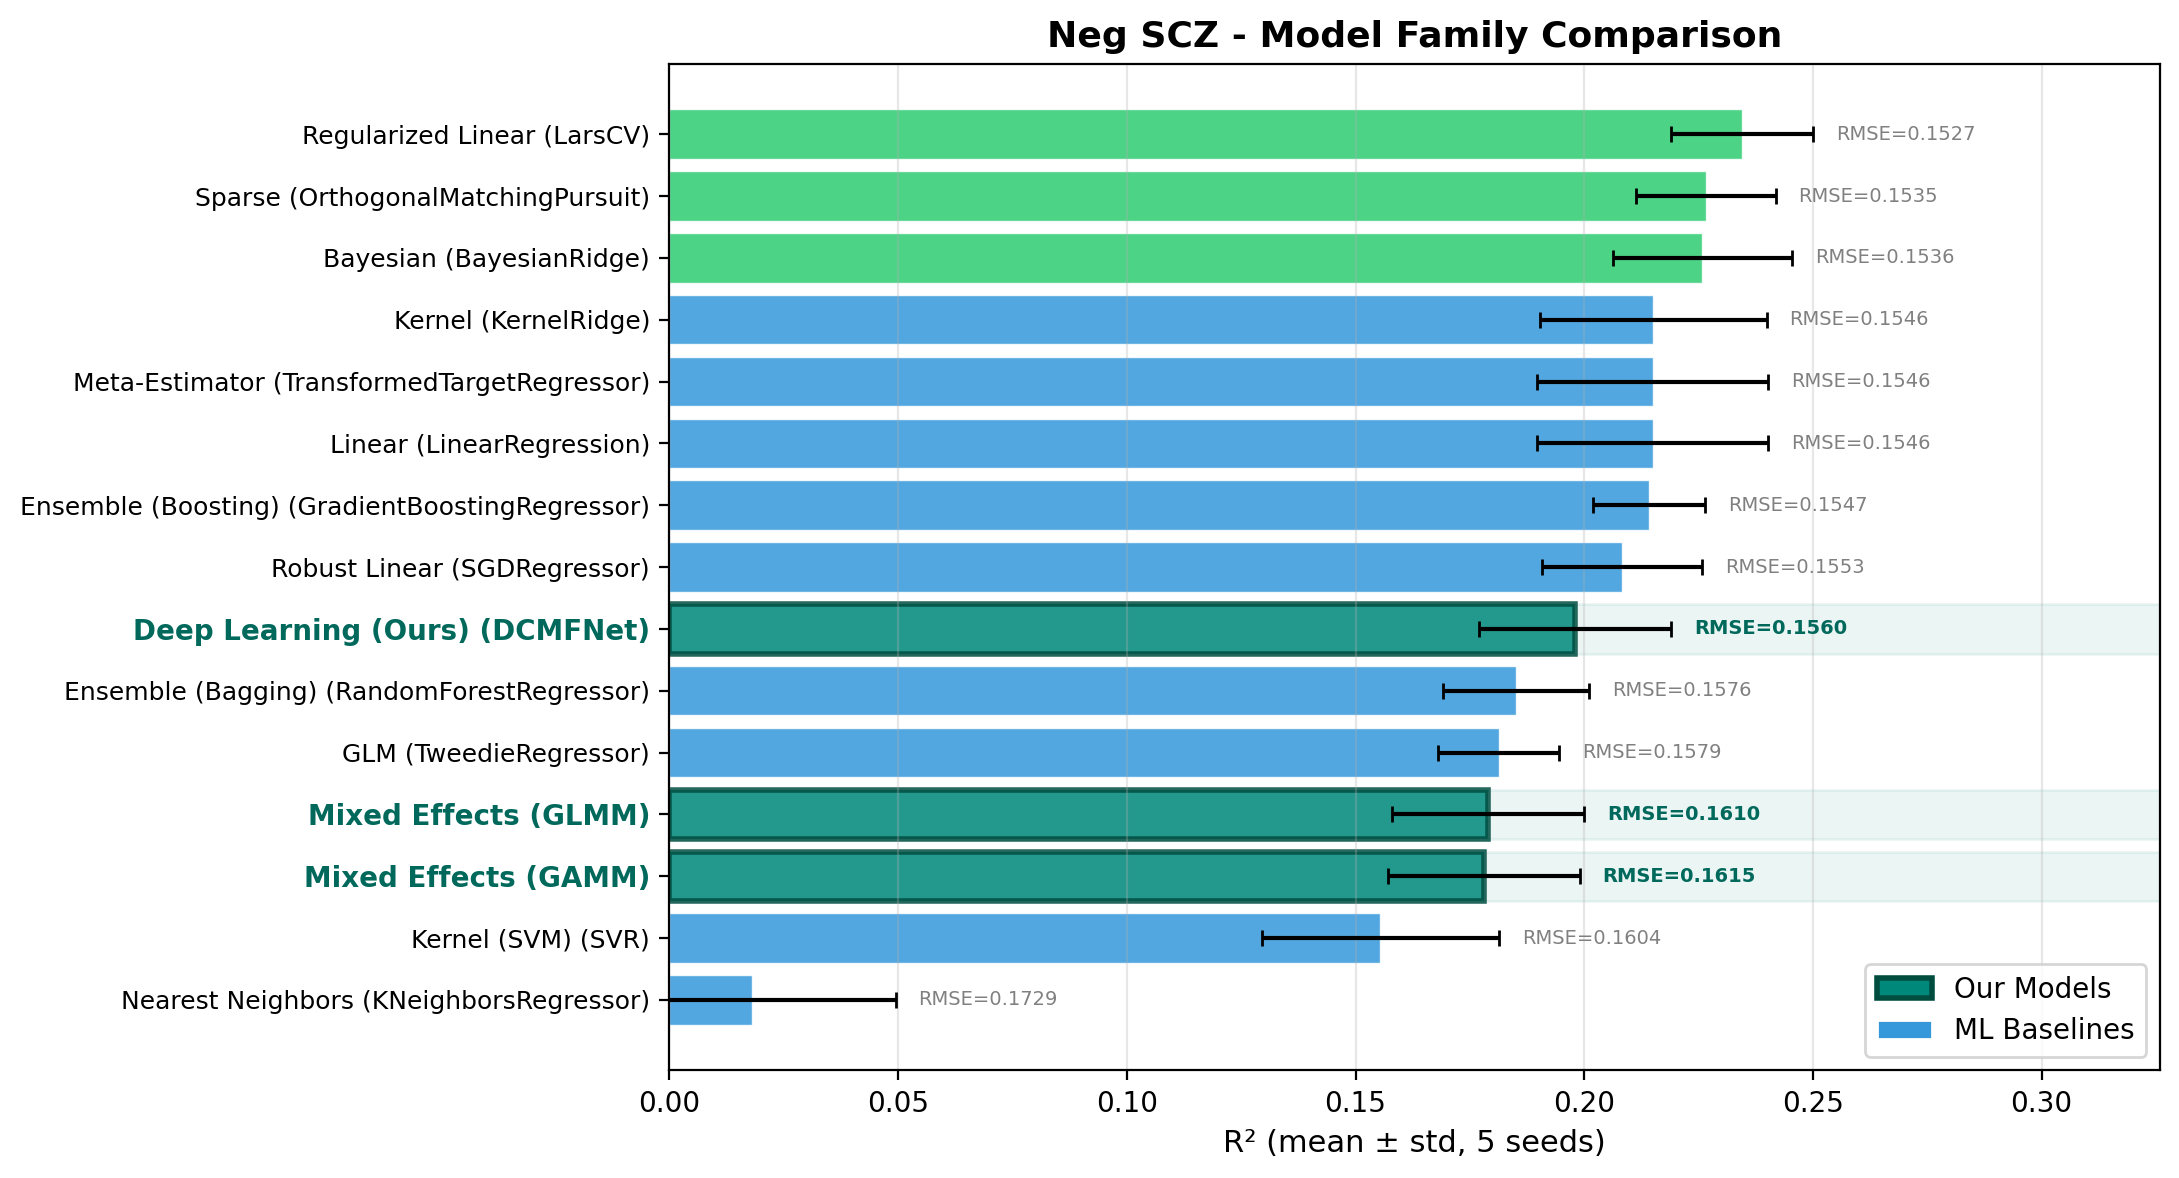
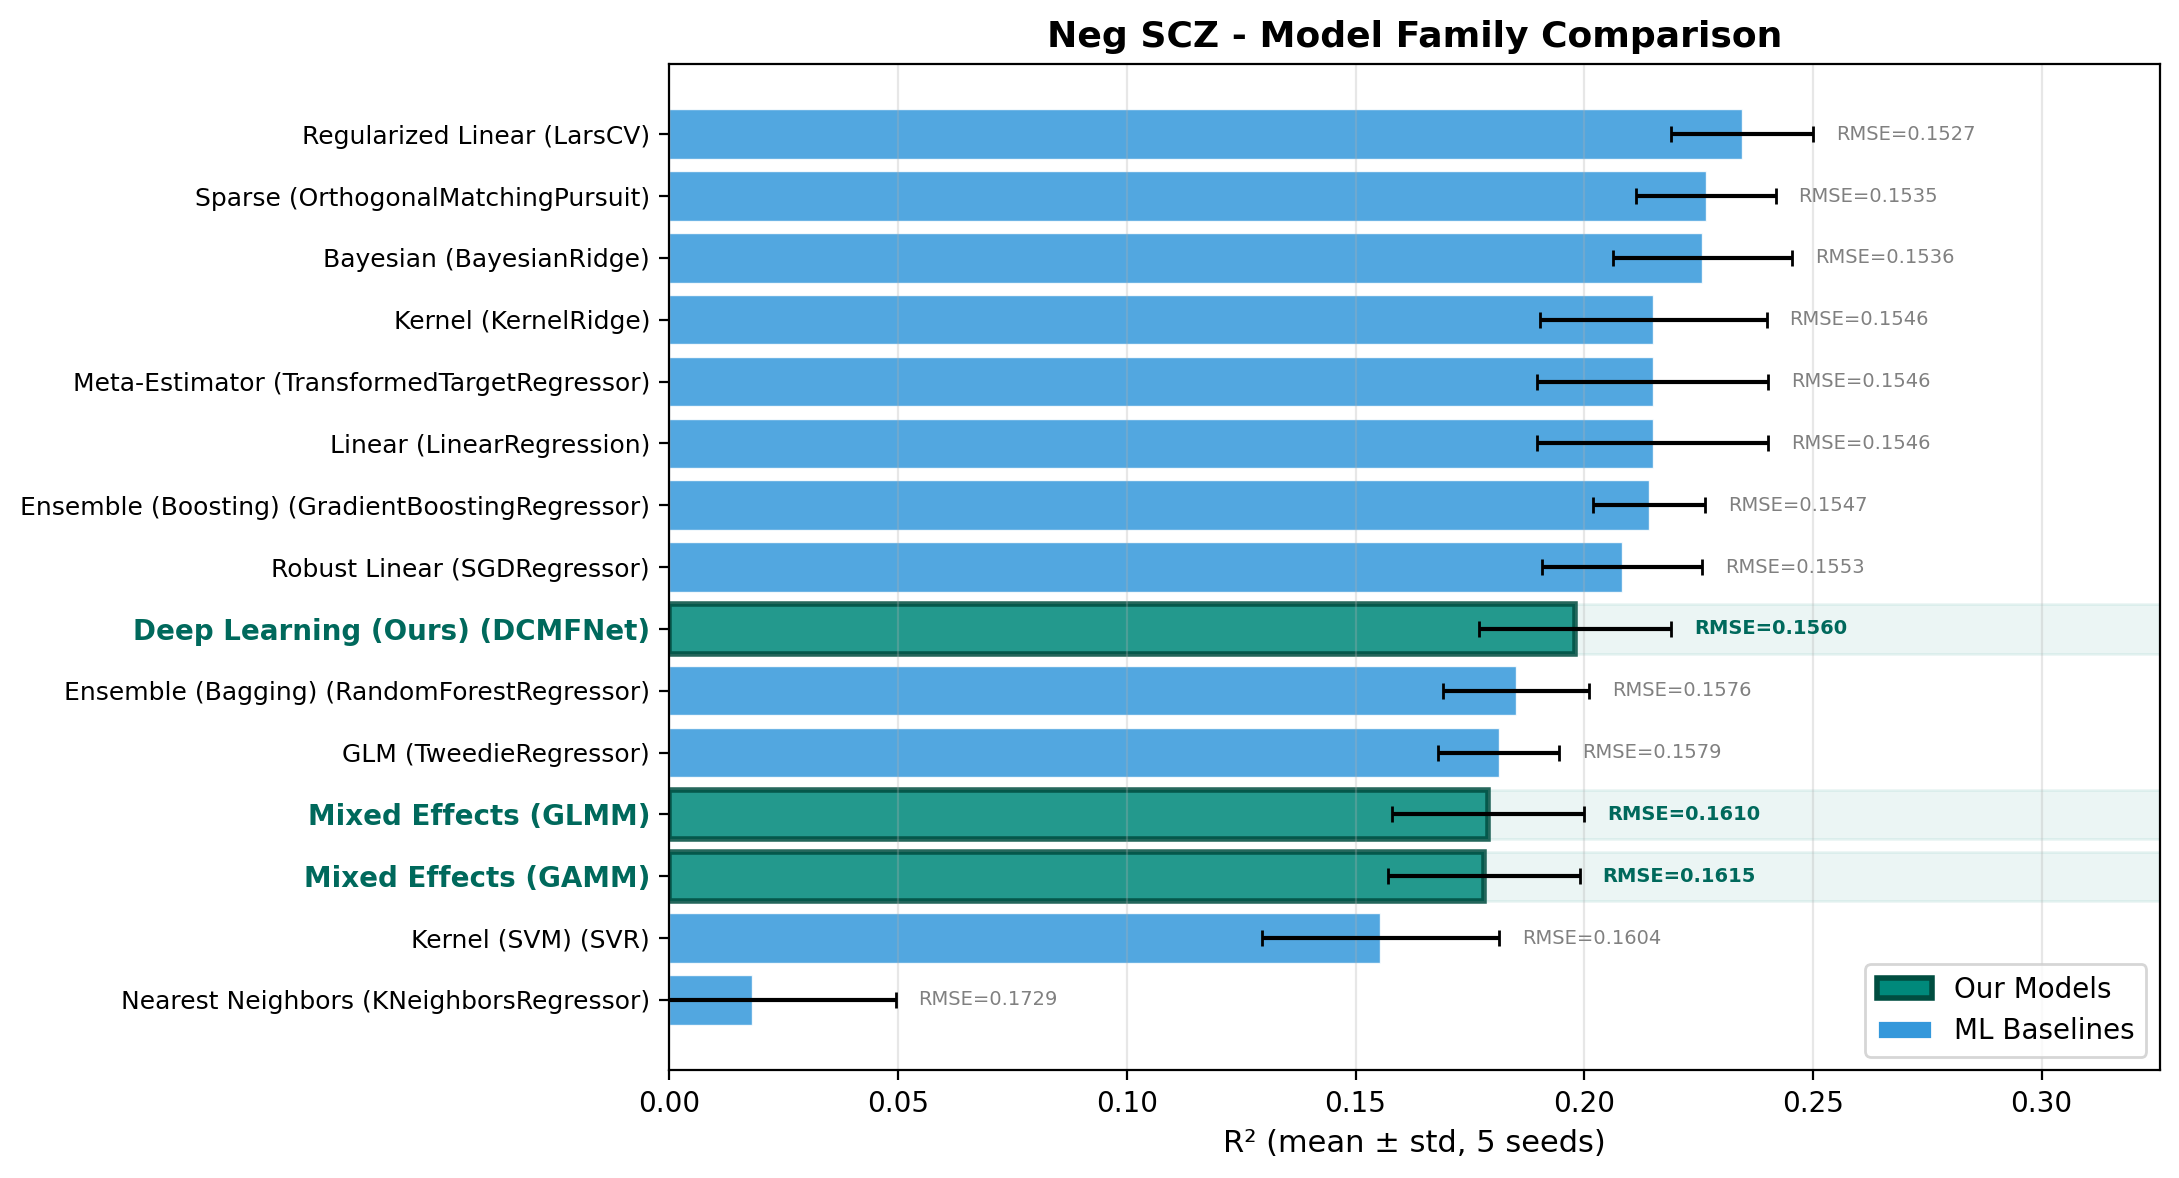
ML benchmark compact updated with spearman rho

Changed region(s): [[0.2809, 0.0917, 0.8114, 0.2445]]

diff --git a/ML/lazy_predict_analysis.py b/ML/lazy_predict_analysis.py
@@ -278,8 +278,8 @@ def plot_compact_bar(best_df, model_tag):
     for i, (_, row) in enumerate(best_df.iterrows()):
         if is_highlighted(row['Model']):
             colors.append('#00897B')
-        elif i >= n - 3 and not any(is_highlighted(best_df.iloc[j]['Model']) for j in range(max(0, n-3), n)):
-            colors.append('#2ecc71')
+        #elif i >= n - 3 and not any(is_highlighted(best_df.iloc[j]['Model']) for j in range(max(0, n-3), n)):
+        #    colors.append('#2ecc71') 
         else:
             colors.append('#3498db')
  
@@ -333,6 +333,80 @@ def plot_compact_bar(best_df, model_tag):
     plt.close()
     print(f"Saved: {model_tag}_benchmark_compact.png")
  
+def plot_spearman_compact_bar(best_df, model_tag):
+
+    '''
+    Horizontal bar chart of spearman rho with highlighted models.
+    '''
+    best_df = best_df.sort_values('spearman_rho_mean', ascending=True)
+    n = len(best_df)
+ 
+    fig, ax = plt.subplots(figsize=(11, max(5, n * 0.4)))
+ 
+    labels = [f"{row['Family']} ({row['Model']})" for _, row in best_df.iterrows()]
+    highlight_mask = [is_highlighted(row['Model']) for _, row in best_df.iterrows()]
+    y_pos = np.arange(n)
+ 
+    # Colors: red for highlighted, green for top ML, blue for rest
+    colors = []
+    for i, (_, row) in enumerate(best_df.iterrows()):
+        if is_highlighted(row['Model']):
+            colors.append('#00897B')
+        #elif i >= n - 3 and not any(is_highlighted(best_df.iloc[j]['Model']) for j in range(max(0, n-3), n)):
+        #    colors.append('#2ecc71') 
+        else:
+            colors.append('#3498db')
+ 
+    # Edge colors: thick red border for highlighted
+    edgecolors = ['#004D40' if highlight_mask[i] else 'white' for i in range(n)]
+    linewidths = [2.0 if highlight_mask[i] else 0.5 for i in range(n)]
+ 
+    bars = ax.barh(y_pos, best_df['spearman_rho_mean'].values, xerr=best_df['spearman_rho_std'].values,
+                   color=colors, alpha=0.85, capsize=3,
+                   edgecolor=edgecolors, linewidth=linewidths)
+ 
+    # Annotate with RMSE
+    for j, (_, row) in enumerate(best_df.iterrows()):
+        weight = 'bold' if is_highlighted(row['Model']) else 'normal'
+        color = '#00695C' if is_highlighted(row['Model']) else 'gray'
+        rmse_text = f"RMSE={row['rmse_mean']:.4f}"
+        ax.annotate(rmse_text, (row['spearman_rho_mean'] + row['spearman_rho_std'] + 0.005, j),
+                    fontsize=7, color=color, va='center', fontweight=weight)
+ 
+    ax.set_yticks(y_pos)
+    ax.set_yticklabels(labels, fontsize=9)
+ 
+    # Bold highlighted labels
+    for j, tick_label in enumerate(ax.get_yticklabels()):
+        if highlight_mask[j]:
+            tick_label.set_fontweight('bold')
+            tick_label.set_color('#00695C')
+            tick_label.set_fontsize(10)
+ 
+    # Red background bands
+    for j in range(n):
+        if highlight_mask[j]:
+            ax.axhspan(y_pos[j] - 0.4, y_pos[j] + 0.4,
+                       color='#00897B', alpha=0.08, zorder=0)
+ 
+    ax.set_xlabel('Spearman ρ (mean ± std, 5 seeds)', fontsize=11)
+    ax.set_title(f'{model_tag} SCZ - Model Family Comparison', fontsize=13, fontweight='bold')
+    ax.grid(axis='x', alpha=0.3)
+    ax.set_xlim(0, best_df['spearman_rho_mean'].max() + best_df['spearman_rho_std'].max() + 0.06)
+ 
+    # Legend
+    from matplotlib.patches import Patch
+    legend_elements = [
+        Patch(facecolor='#00897B', edgecolor='#004D40', linewidth=2, label='Our Models'),
+        Patch(facecolor='#3498db', edgecolor='white', label='ML Baselines'),
+    ]
+    ax.legend(handles=legend_elements, loc='lower right', fontsize=10)
+ 
+    plt.tight_layout()
+    plt.savefig(f'{model_tag}_spearman_benchmark_compact.png', dpi=200, bbox_inches='tight')
+    plt.close()
+    print(f"Saved: {model_tag}_spearman_benchmark_compact.png")
+ 
 
 def save_family_table(best_df, model_tag):
     out = best_df[['Family', 'Model', 'rmse_mean', 'rmse_std',
@@ -369,4 +443,5 @@ if __name__ == "__main__":
 
         plot_family_comparison(best_df, model_tag)
         plot_compact_bar(best_df, model_tag)
+        plot_spearman_compact_bar(best_df, model_tag)
         save_family_table(best_df, model_tag)
